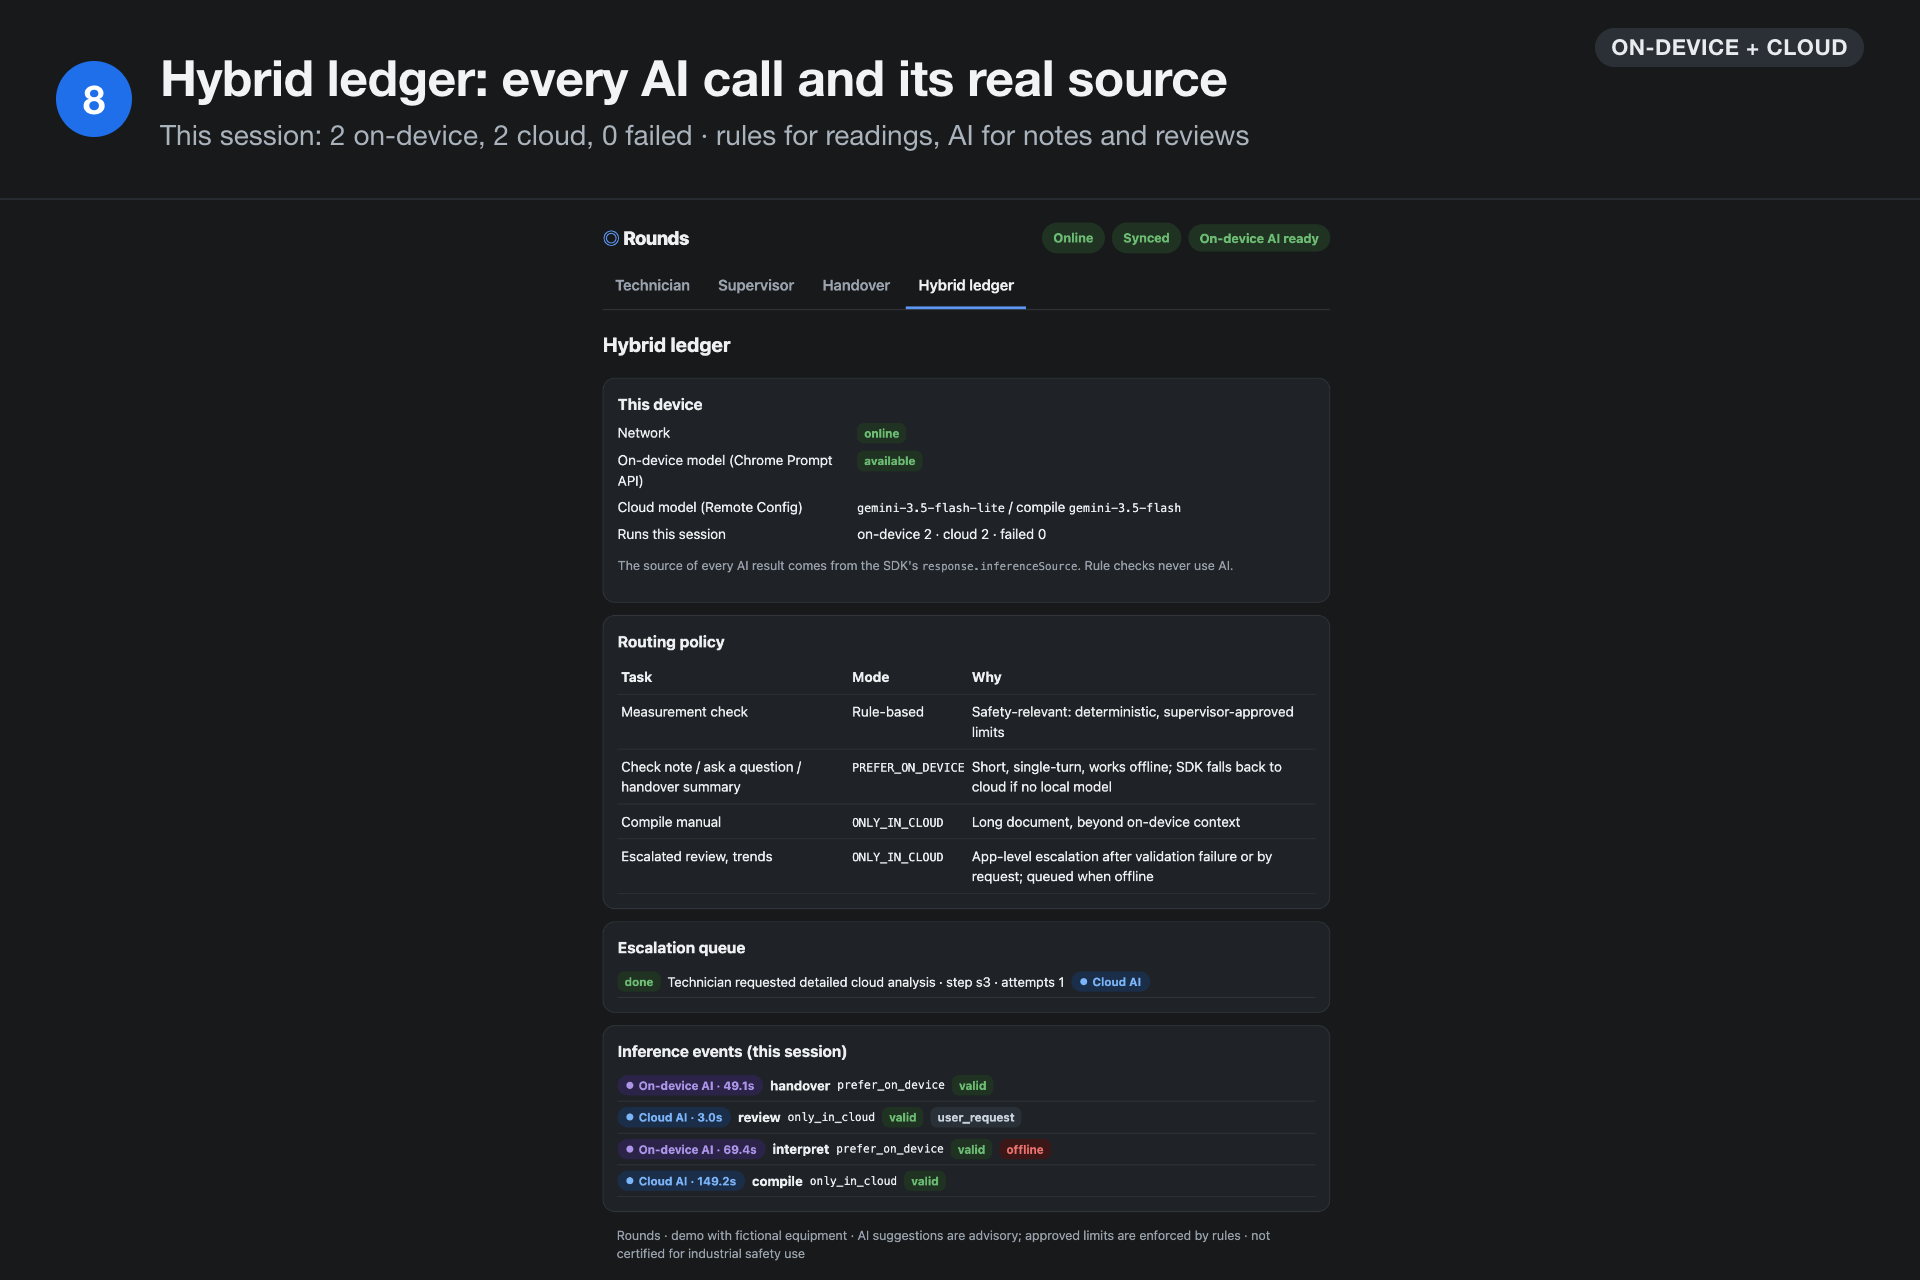
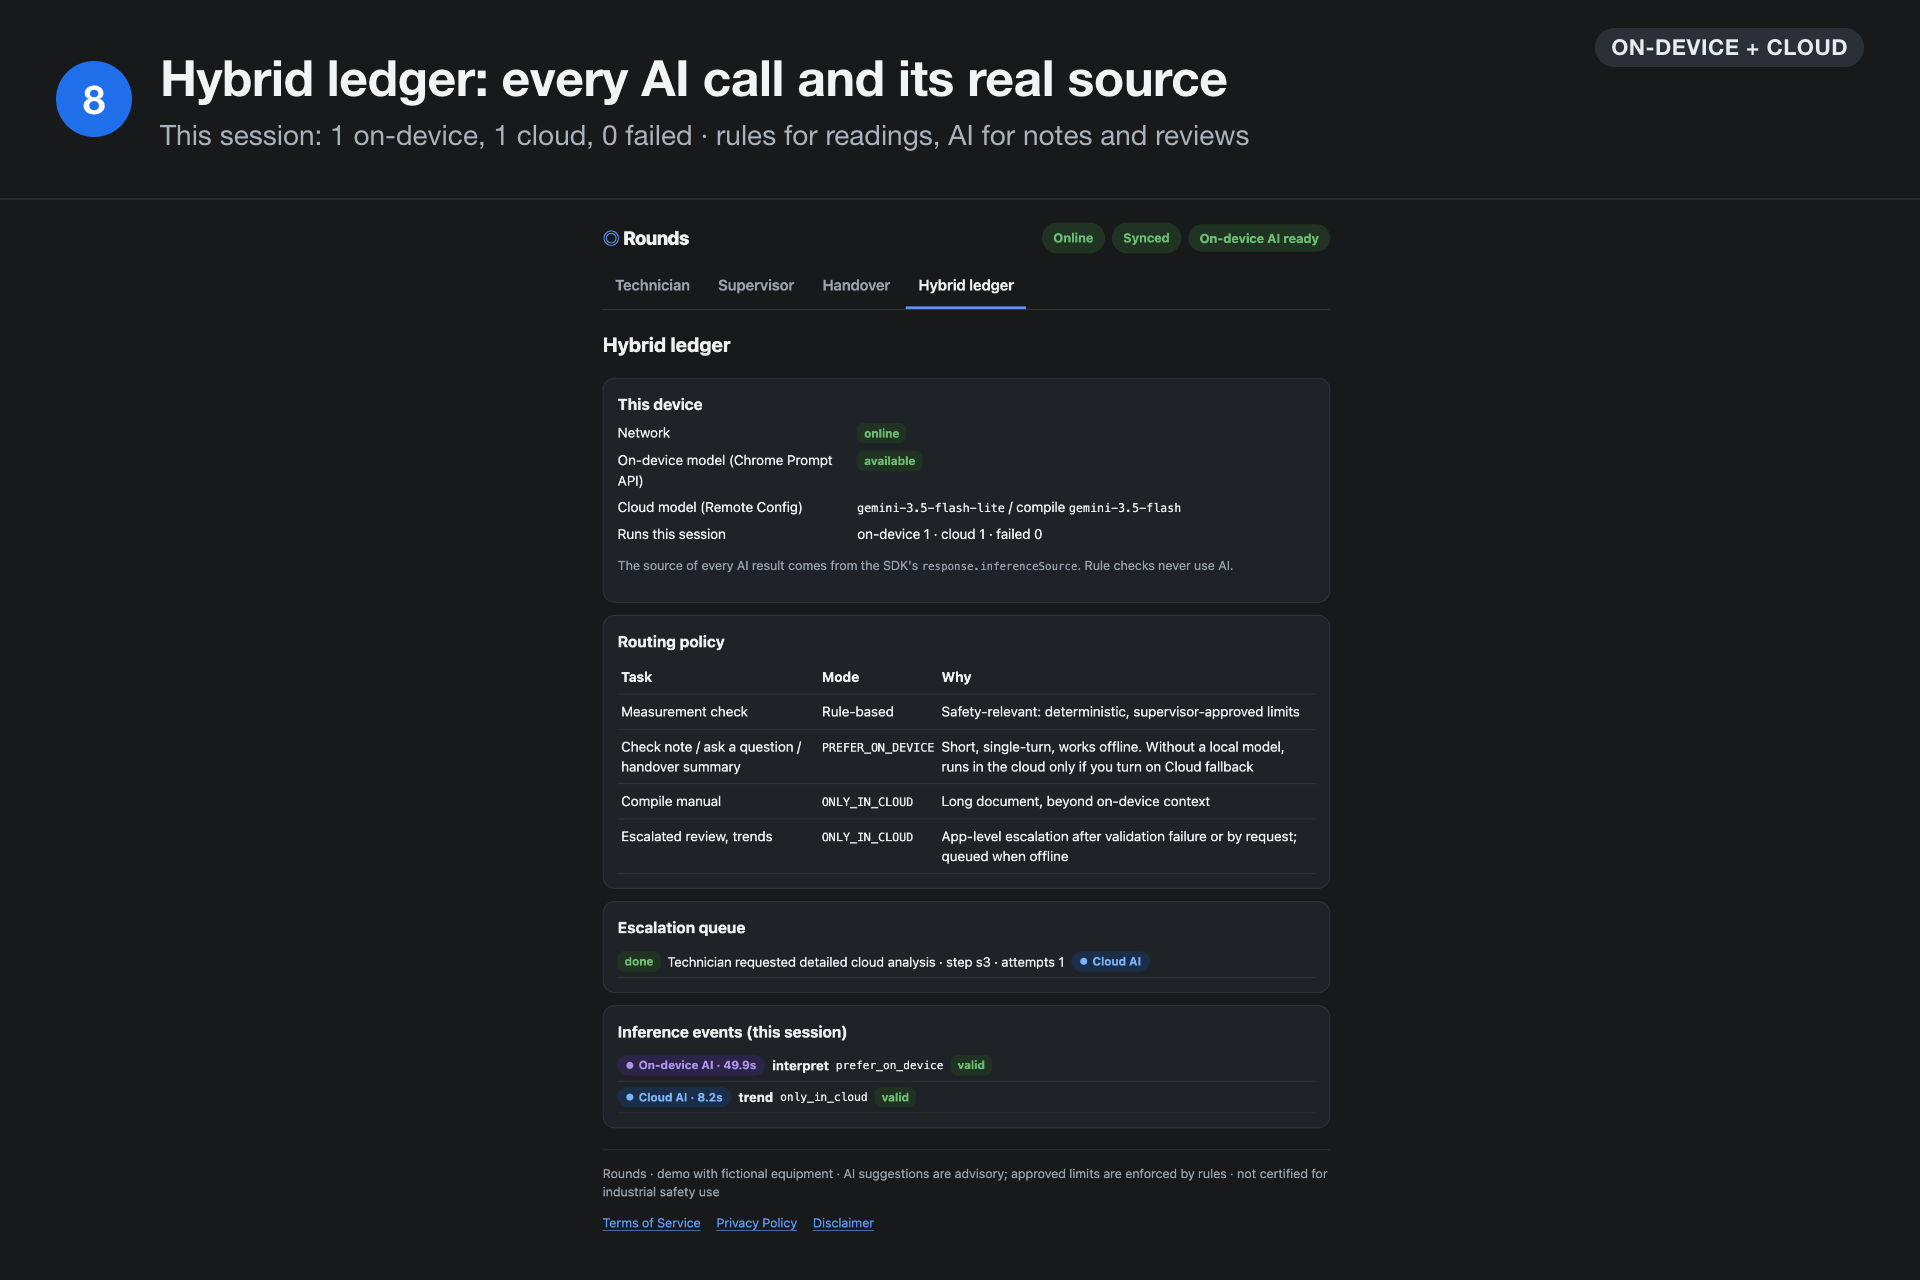
fix(ledger): state that device tasks use the cloud only after opt-in
- Correct the Hybrid ledger routing policy: without a local model,
  note checks, questions and handovers run in the cloud only when
  Cloud fallback is turned on
- Apply the same wording to the architecture diagram
- Regenerate the Devpost architecture and ledger gallery images

diff --git a/web/src/views/Ledger.tsx b/web/src/views/Ledger.tsx
@@ -64,7 +64,7 @@ export function Ledger() {
               <td>
                 <code>PREFER_ON_DEVICE</code>
               </td>
-              <td>Short, single-turn, works offline; SDK falls back to cloud if no local model</td>
+              <td>Short, single-turn, works offline. Without a local model, runs in the cloud only if you turn on Cloud fallback</td>
             </tr>
             <tr>
               <td>Compile manual</td>

diff --git a/docs/DEVPOST.md b/docs/DEVPOST.md
@@ -16,7 +16,7 @@
 
 ### Image gallery (upload in this order, 3:2, each under 1 MB)
 
-All app images are real frames from the recorded demo run (the same build as the live site), apart from #9, a screenshot of the same workspace taken after the run. The equipment is fictional.
+All app images are real frames from the recorded demo run (the same build as the live site), apart from #9, a screenshot of the same workspace taken after the run with two fresh AI calls (one on-device, one cloud). The equipment is fictional.
 
 | # | File | Caption |
 |---|---|---|
@@ -28,7 +28,7 @@ All app images are real frames from the recorded demo run (the same build as the
 | 6 | `docs/devpost/06-consent.png` | Before a cloud review, the technician sees the exact text to be sent. Offline, the request is queued on the device. |
 | 7 | `docs/devpost/07-cloud-review.png` | Back online, the queued request runs on cloud Gemini (3.0 s) with the manual section and this check's history. Advisory only. |
 | 8 | `docs/devpost/08-handover.png` | Gemini Nano drafts the shift handover on the device (49.1 s), above a facts table built by rules from the recorded readings. |
-| 9 | `docs/devpost/09-hybrid-ledger.png` | Hybrid ledger: every AI call with its real source. This run: 2 on-device, 2 cloud, 0 failed. |
+| 9 | `docs/devpost/09-hybrid-ledger.png` | Hybrid ledger: every AI call with its real source, plus the routing policy and the consented cloud review queue. |
 
 The images are rendered by `video/gallery.mjs` from stills of the recording.
 
